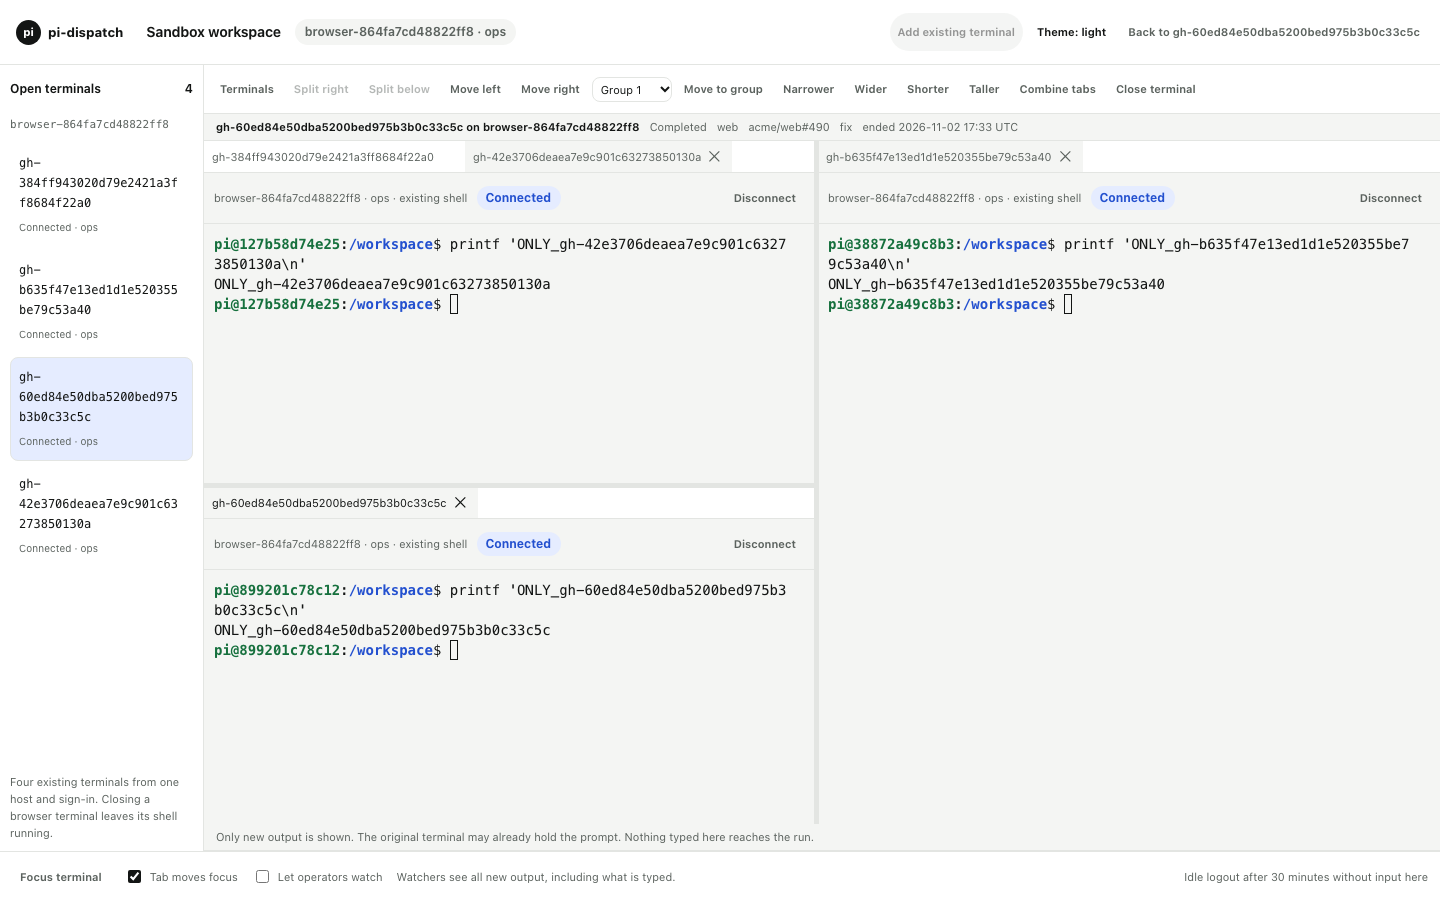
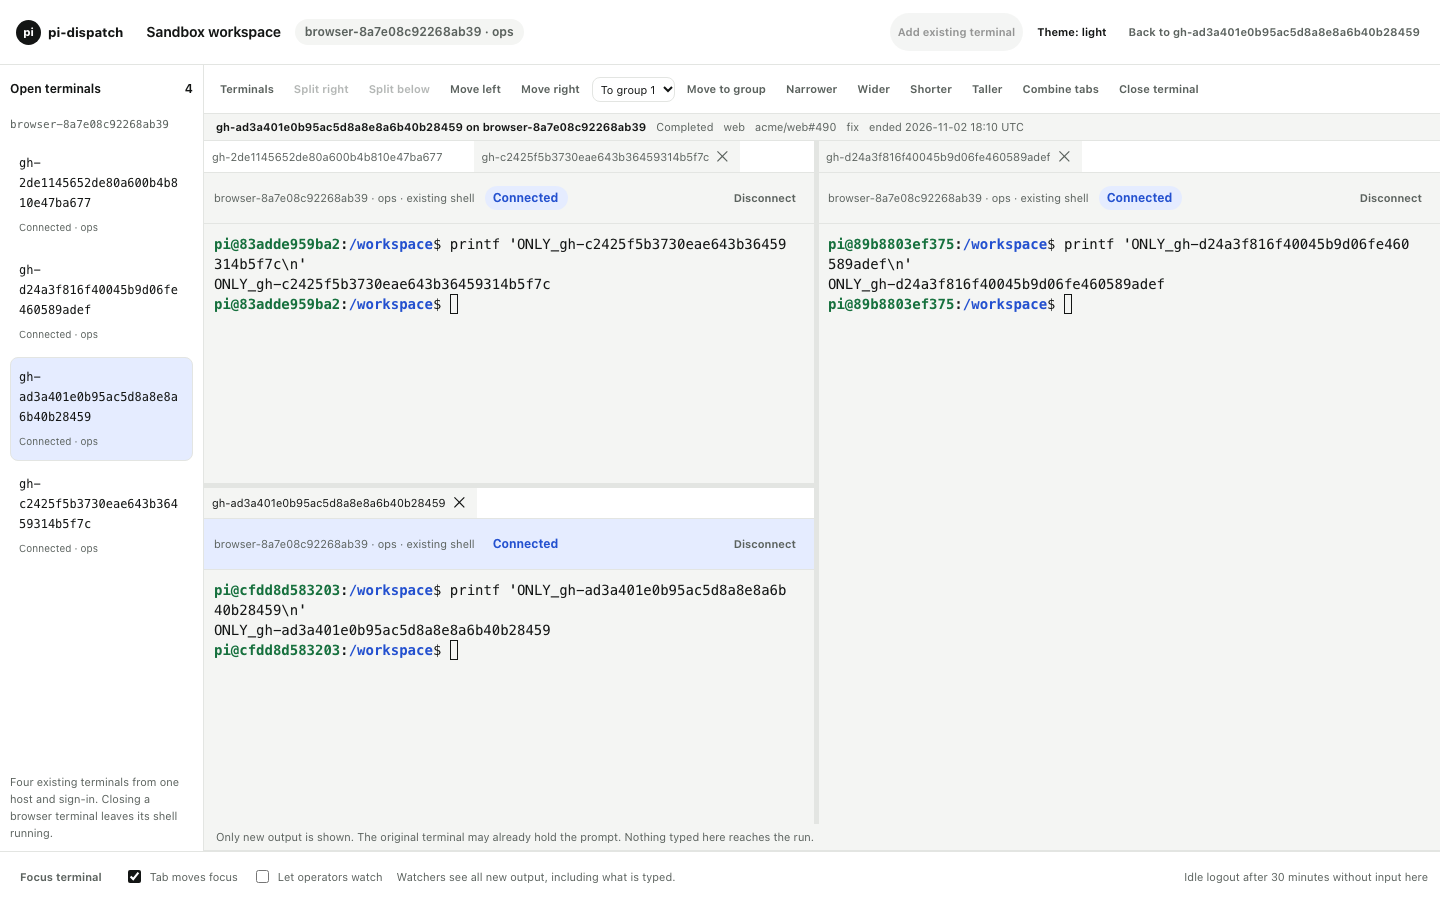
docs(sandbox): final evidence for the workbench, watching and run Workspace (#754, #792, #793)
Recaptured after the last visual change, at 1d33530d.

diff --git a/README.md b/README.md
@@ -1,7 +1,7 @@
 # Visual evidence for #753 and #754
 
 Unmodified screenshots from fixture deployments, separate from the implementation branch.
-Implementation: `2b41c3abea7728f2d594d6d3a5fb7008be4be530`.
+Implementation: `1d33530d` (the final commit) for the workbench, watching and run Workspace captures; `2b41c3abea7728f2d594d6d3a5fb7008be4be530` for Zero touch, which has not changed since.
 Before: `deb7dfef867d469e0e90279719b3ecc033c60a27`.
 
 Zero touch before and after use the same six sent-draft runs. Gateway captures use a real existing Docker sandbox, production application handlers and CSPs, distinct TLS sites, Secure/Strict cookies, xterm.js, and actual input/output. The driver follows both rendered Run and Sandboxes new-tab entry points. Its isolated certificate allowlist trusts only the generated fixture certificate; an unrelated self-signed certificate is rejected. No system trust store is changed.
